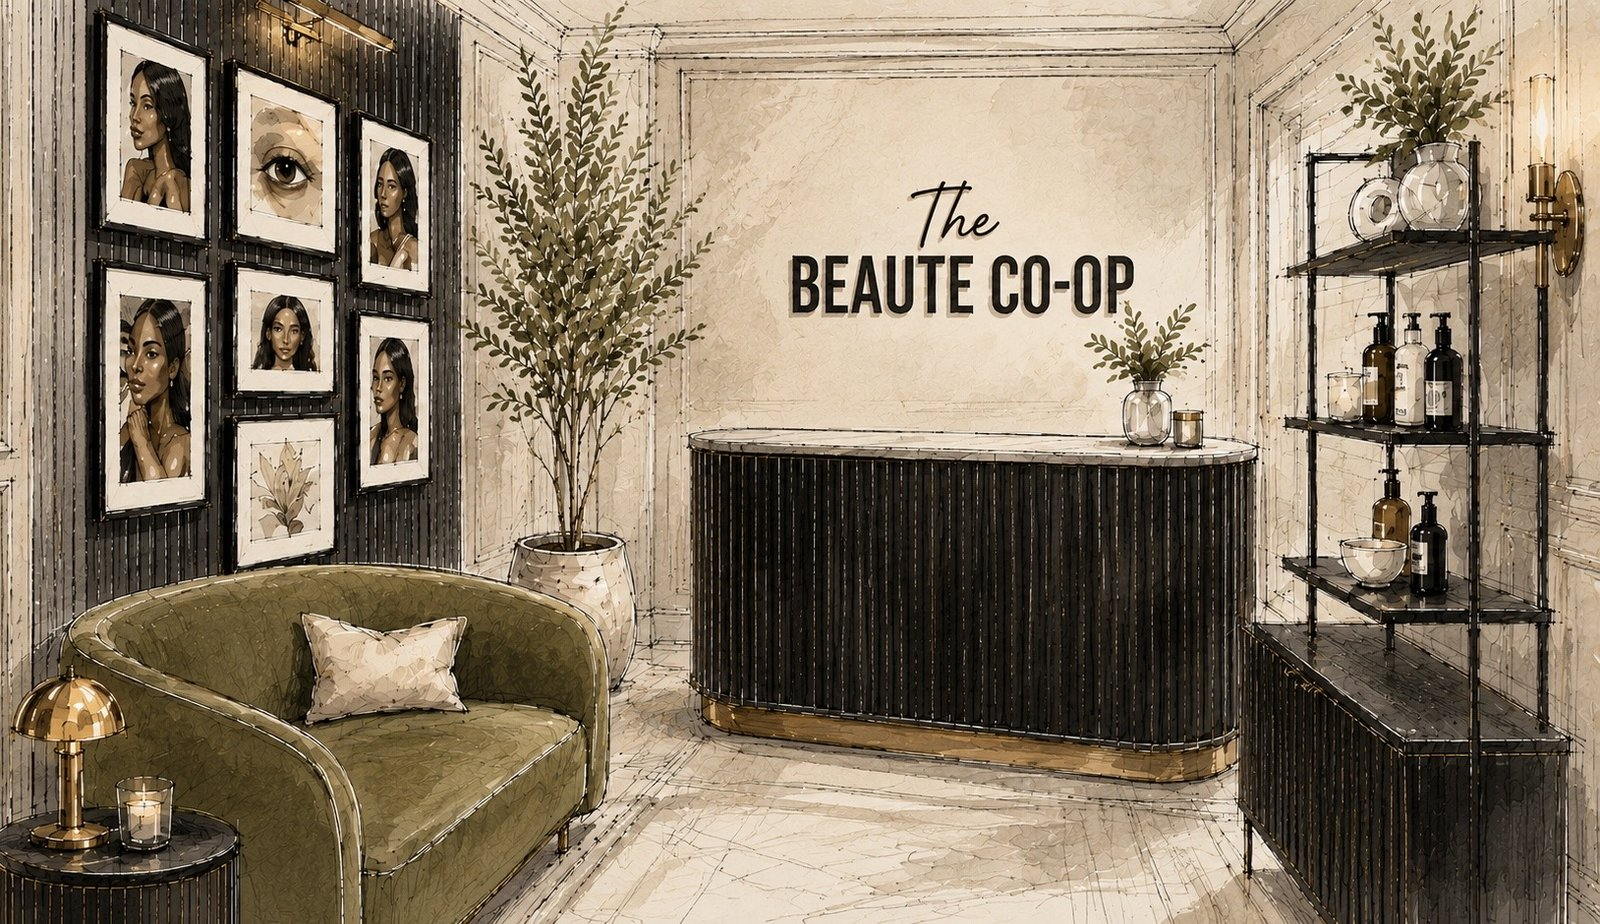
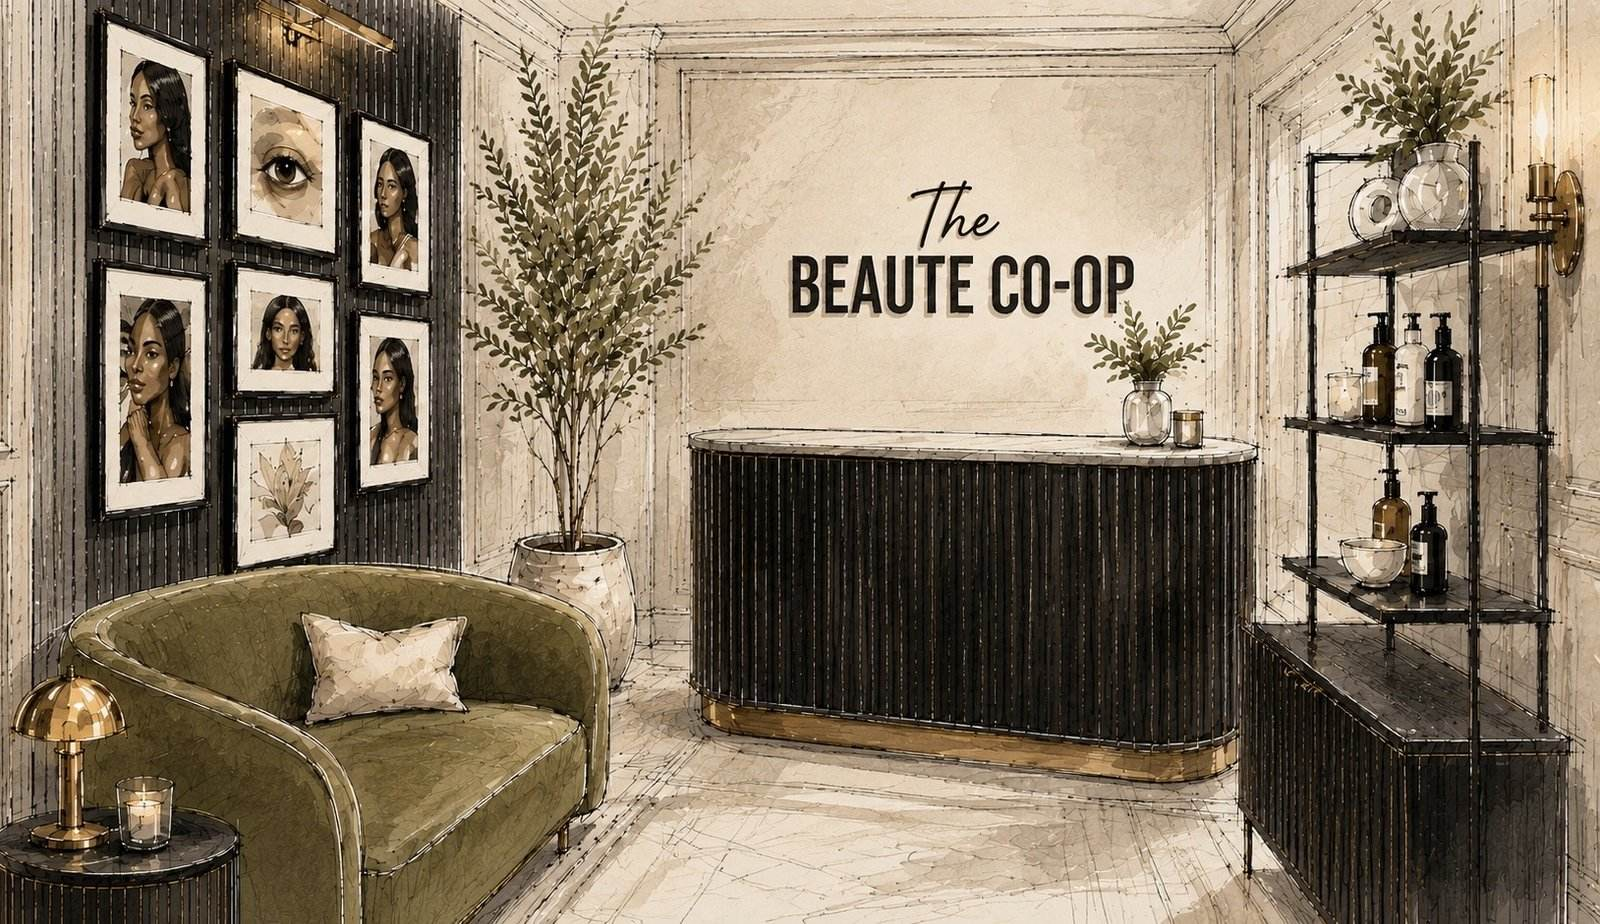
SEO and performance pass
- Add vercel.json SPA rewrite so direct/refreshed loads of sub-pages
  (e.g. /services) don't 404 — this was silently breaking Google's
  ability to index every page beyond the homepage.
- Point og:image fallback at a real photo instead of a nonexistent file.
- Enrich BeautySalon JSON-LD with telephone and image fields.
- Give artist headshots keyword-descriptive alt text (name, business,
  specialty, and location) instead of just the artist's name.
- Add loading="eager"/fetchPriority="high" on the Home hero image (the
  page's LCP element) and loading="lazy" on every other photo.
- Resize and recompress all photography for their actual display size:
  headshots 900x900 → 500x500, entryway photo re-encoded at a lower but
  still clean JPEG quality. Total image payload drops from ~1.16MB to
  ~470KB with no visible quality loss.

diff --git a/src/pages/Home.jsx b/src/pages/Home.jsx
@@ -41,6 +41,8 @@ export default function Home() {
             src={assets.entryway}
             alt="The Beaute Co-op entryway and reception in Arlington, VA"
             className="h-full w-full object-cover object-[center_20%] saturate-[1.05]"
+            loading="eager"
+            fetchPriority="high"
           />
           <div className="absolute inset-0 bg-[linear-gradient(0deg,var(--color-ink)_0%,transparent_25%)] lg:bg-[linear-gradient(90deg,var(--color-ink)_0%,transparent_12%)]" />
           <div className="absolute inset-7 left-0 hidden border border-ivory/35 lg:block" />
@@ -79,6 +81,7 @@ export default function Home() {
                   <img
                     src={assets.entryway}
                     alt="Inside The Beaute Co-op salon suite"
+                    loading="lazy"
                     className="h-full w-full object-cover opacity-82"
                   />
                   <div className="absolute inset-0 bg-[linear-gradient(180deg,rgba(15,13,10,0.1)_0%,rgba(15,13,10,0.75)_100%)]" />
@@ -145,6 +148,7 @@ export default function Home() {
           <img
             src={assets.entryway}
             alt="Inside The Beaute Co-op salon suite in Arlington, VA"
+            loading="lazy"
             className="h-full w-full object-cover"
           />
           <div className="absolute inset-0 bg-[linear-gradient(0deg,var(--color-ink)_5%,rgba(23,20,16,0.35)_55%,rgba(23,20,16,0.15)_100%)]" />

diff --git a/src/pages/Services.jsx b/src/pages/Services.jsx
@@ -32,7 +32,12 @@ function ServiceRow({ category, flip }) {
 
       <div className="relative border border-hairline bg-ivory p-11 before:absolute before:inset-x-0 before:top-0 before:h-[3px] before:bg-brass">
         <div className="mb-5.5 h-19 w-19 overflow-hidden rounded-full outline outline-brass outline-offset-[5px]">
-          <img src={artist.photo} alt={artist.name} className="h-full w-full object-cover" />
+          <img
+            src={artist.photo}
+            alt={`${artist.name} of ${artist.businessName}, ${category.name.toLowerCase()} specialist at The Beaute Co-op in Arlington, VA`}
+            loading="lazy"
+            className="h-full w-full object-cover"
+          />
         </div>
         <div className="font-display text-[21px]">{artist.name}</div>
         <div className="font-serif-italic mb-4 text-[15px] text-brass">{artist.businessName}</div>

diff --git a/src/components/LocalBusinessSchema.jsx b/src/components/LocalBusinessSchema.jsx
@@ -1,7 +1,7 @@
 import { Helmet } from 'react-helmet-async'
 import { business } from '../data/business.js'
 
-const SITE_URL = 'https://www.thebeautecoop.com' // PLACEHOLDER — replace with real domain once live
+const SITE_URL = 'https://www.thebeautecoop.com'
 
 export default function LocalBusinessSchema() {
   const schema = {
@@ -10,6 +10,8 @@ export default function LocalBusinessSchema() {
     '@id': `${SITE_URL}/#business`,
     name: business.name,
     url: SITE_URL,
+    image: `${SITE_URL}/images/entryway.jpg`,
+    telephone: business.textPhone,
     email: business.email,
     address: {
       '@type': 'PostalAddress',

diff --git a/src/pages/About.jsx b/src/pages/About.jsx
@@ -60,6 +60,7 @@ export default function About() {
               <img
                 src={assets.morganHeadshot}
                 alt="Morgan Gunter, Founder of The Beaute Co-op"
+                loading="lazy"
                 className="h-full w-full object-cover"
               />
             </div>
@@ -116,6 +117,7 @@ export default function About() {
                 <img
                   src={assets.entryway}
                   alt="Inside The Beaute Co-op salon suite"
+                  loading="lazy"
                   className="h-full w-full object-cover"
                 />
               </div>

diff --git a/src/components/SEO.jsx b/src/components/SEO.jsx
@@ -1,10 +1,10 @@
 import { Helmet } from 'react-helmet-async'
 
-const SITE_URL = 'https://www.thebeautecoop.com' // PLACEHOLDER — replace with real domain once live
+const SITE_URL = 'https://www.thebeautecoop.com'
 
 export default function SEO({ title, description, path = '/', image }) {
   const url = `${SITE_URL}${path}`
-  const ogImage = image ?? `${SITE_URL}/og-image.jpg`
+  const ogImage = image ?? `${SITE_URL}/images/entryway.jpg`
 
   return (
     <Helmet>
